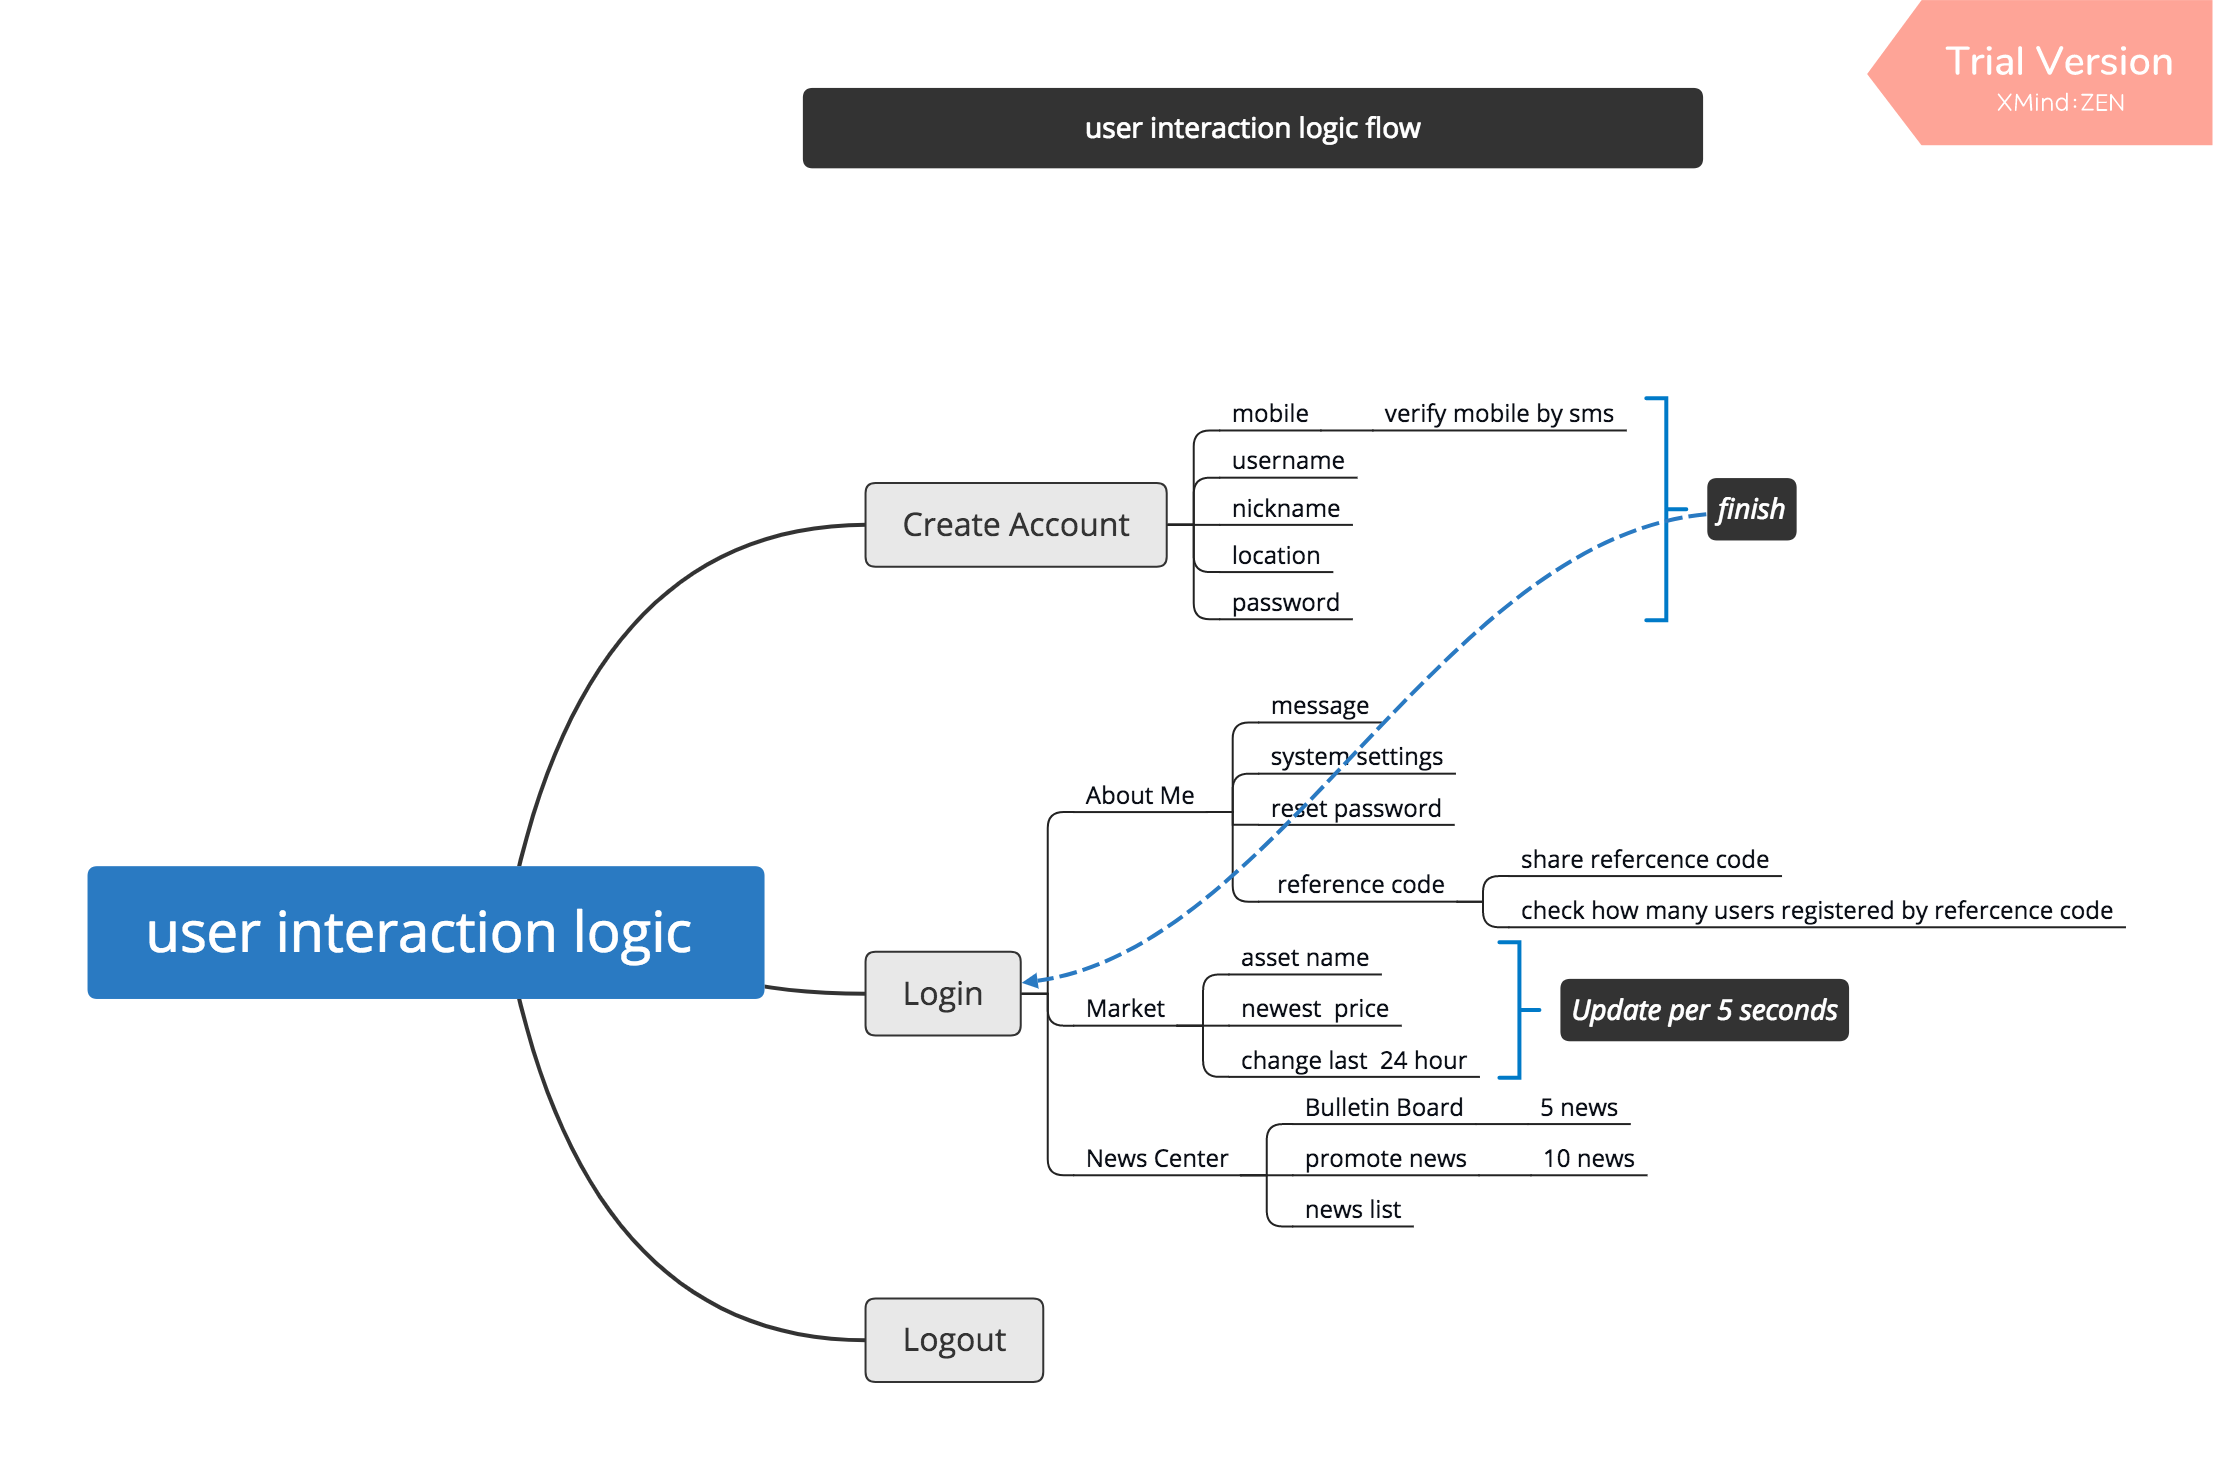
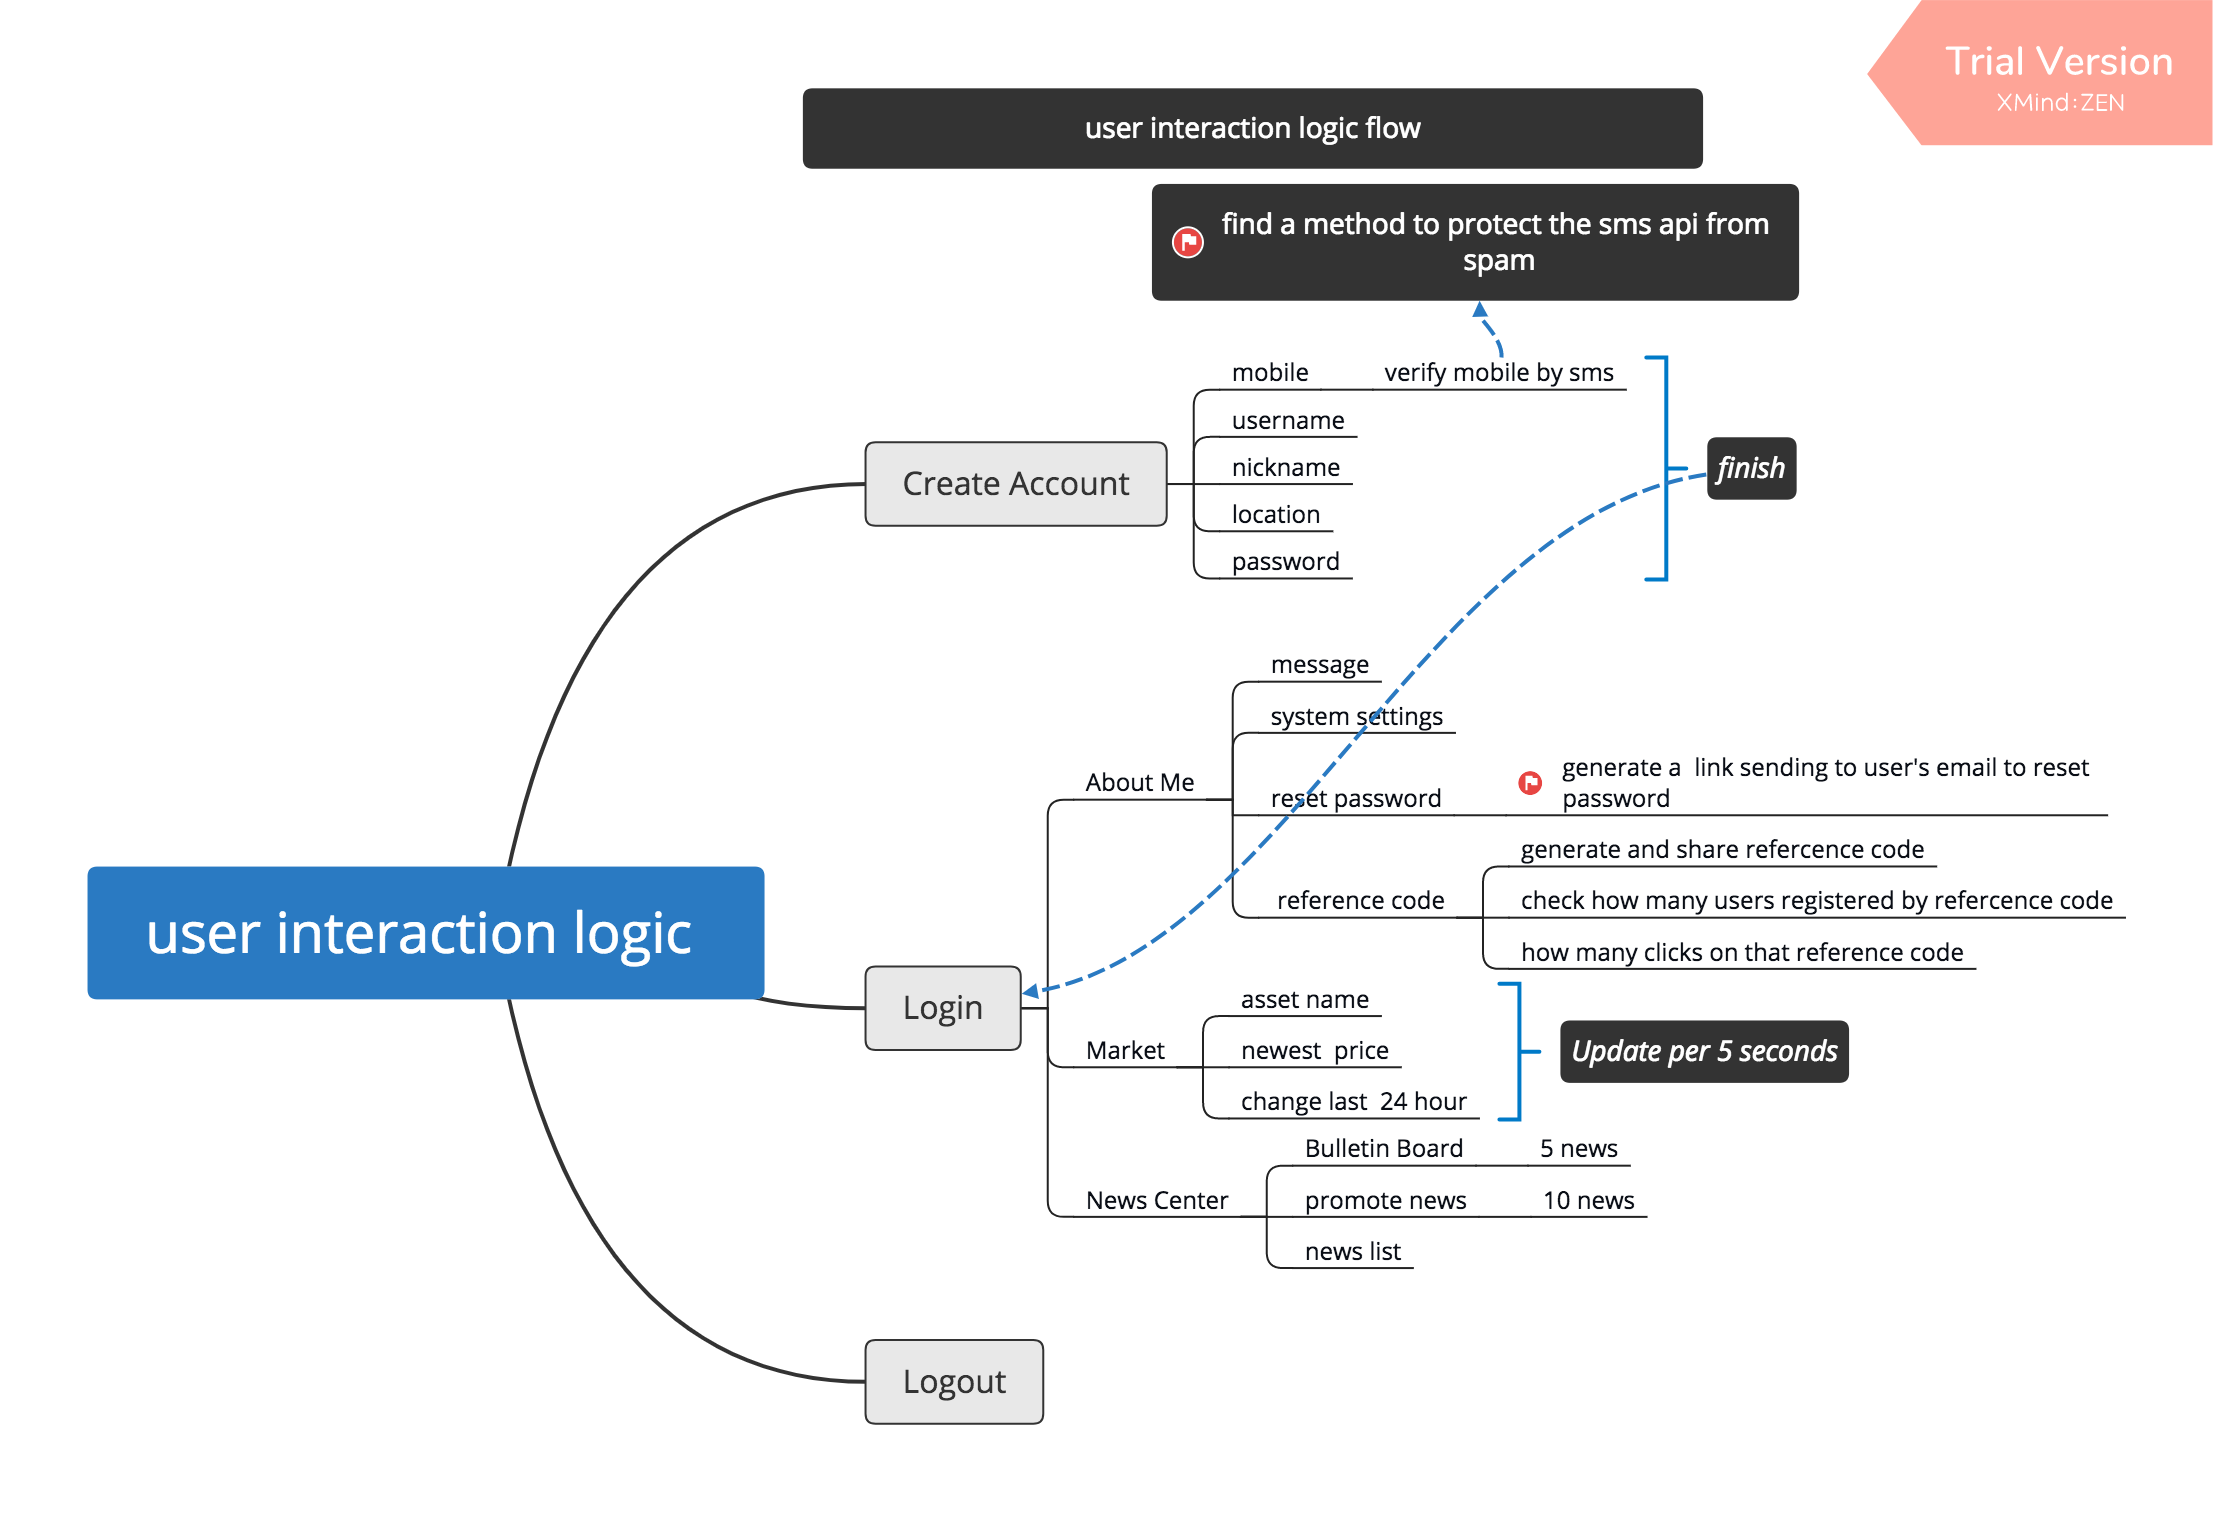
add bonus feature

diff --git a/README.md b/README.md
@@ -58,3 +58,5 @@ Logic Flow
 ![](https://raw.githubusercontent.com/Unity-Labs-Development/Backend-Service-API-Demo/master/assets/user%20interaction%20logic%20.png)
 
 The logic flow describe the requirements of backend service, some of the requirements aren't accurate or reasonable, please choose a few features to finish in 4 - 5 hours. Fork first, please send PR when finished.
+
+** There will be a bonus if you finish the features marked with "red flag", please provide details about why will make such techical choices, what's the pros and cons.
